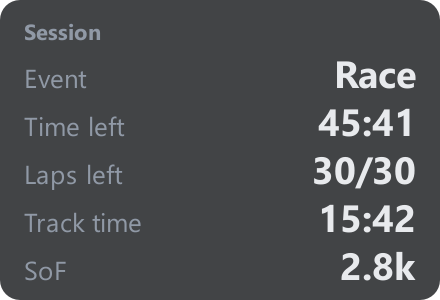
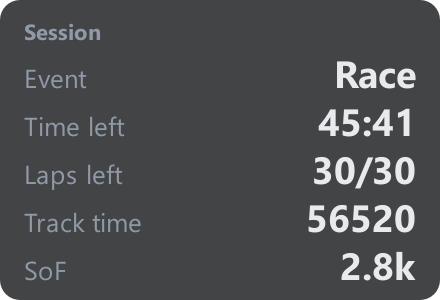
fix(dashboard): 36 служебных слов на экране — теперь ноль, и есть сторож
Прошёл по всем шести вкладкам, как договаривались, и посмотрел на текст,
а не на код. Нашлось три поломки, и все три показывали ОТСУТСТВИЕ ДАННЫХ
как поломку программы — человек идёт искать, что сломалось, вместо того
чтобы проехать круг.

«stint ~undefined laps» и «undefined L» на вкладке Strategy. Демо считало
план сам и придумало имена полей — `first_stop_lap`, `add_each`, — а
страница читает `next_stop_lap` и `fuel_per_stop`. Пропущенное поле
JavaScript печатает СЛОВОМ. Теперь демо зовёт тот же `plan_race`, что и
бой, а страница ставит прочерк вместо слова.

«NaN% износа» — я чинил это вчера и починил ОДНУ ИЗ ДВУХ КОПИЙ. Плитки
рисовались двумя функциями слово в слово, и Endurance так и печатал NaN%
по всем четырём колёсам. Копия расходится ровно тогда, когда первую
правят. Свёл в одну `wearTiles`.

«Time of day NaN:NaN». `fmtClock` делит на 3600, а демо давало строку
«15:42». Починено с обеих сторон: демо отдаёт секунды, как сим, а часы на
не-число ставят прочерк.

СТОРОЖ: `tests/test_dashboard_screen.py` поднимает страницу в безголовом
браузере, читает весь DOM (скрытые вкладки лежат в нём тоже — одной
загрузки хватает на все шесть) и падает, если на экране появилось
«undefined», «NaN» или «[object Object]». Две секунды. Проверено
обратной правкой: сломанные часы он ловит.

Заодно проверяет, что страница вообще отрисовалась и что износ показывает
проценты, а не четыре прочерка: карточка, молча показывающая прочерки,
выглядит исправной.

Changed region(s): [[0.6795, 0.66, 0.9455, 0.78]]

diff --git a/src/ire/dashboard/static/index.html b/src/ire/dashboard/static/index.html
@@ -693,7 +693,11 @@ function renderFuelGraph(){
 const _clr = c => (c ? '#'+(c>>>0).toString(16).padStart(6,'0') : 'var(--bad)');
 const fmtTime = s => { if(s==null) return '—'; s=Math.max(0,Math.round(s)); const h=Math.floor(s/3600),m=Math.floor(s%3600/60),ss=s%60;
   return h?`${h}:${String(m).padStart(2,'0')}:${String(ss).padStart(2,'0')}`:`${m}:${String(ss).padStart(2,'0')}`; };
-const fmtClock = s => { if(s==null) return '—'; s=Math.round(s)%86400; return `${String(Math.floor(s/3600)).padStart(2,'0')}:${String(Math.floor(s%3600/60)).padStart(2,'0')}`; };
+// Секунды от полуночи -> ЧЧ:ММ. Не число — прочерк: раньше здесь выходило
+// «NaN:NaN», то есть отсутствие данных выглядело как поломка арифметики.
+const fmtClock = s => { if(typeof s!=='number' || !isFinite(s)) return '—';
+  s=Math.round(s)%86400; if(s<0) s+=86400;
+  return `${String(Math.floor(s/3600)).padStart(2,'0')}:${String(Math.floor(s%3600/60)).padStart(2,'0')}`; };
 
 // бейдж «номер машины в цвете класса» (GTP жёлтый / LMP2 синий / GT3 алый — цвет с сервера)
 function numBadge(c){
@@ -735,8 +739,12 @@ function renderTrackRing(data){
     <circle cx="50" cy="50" r="40" fill="none" stroke="var(--line)" stroke-width="3"/>${dots}</svg>
     <div class="why" style="text-align:center;margin-top:6px">all cars on the lap (you are green)</div>`;
 }
-function renderWear(w){
-  if(!w || !Object.keys(w).length) return;
+// Плитки износа — ОДНА функция на обе вкладки.
+//
+// Их было две, слово в слово, и я починил одну: Endurance так и печатал
+// NaN% по всем четырём колёсам. Копия расходится ровно в тот момент, когда
+// первую правят, и заметить это можно только глазами на второй вкладке.
+function wearTiles(w){
   // Угол — это ТРИ зоны плюс худшая из них: {l, m, r, min}. Карточка читала
   // угол как одно число и множила объект на сто — на экране висело NaN% по
   // всем четырём колёсам. Число, которого нет, обязано выглядеть как «—»,
@@ -757,7 +765,12 @@ function renderWear(w){
     return `<div class="tire"><div class="cn">${name}</div><div style="font-size:20px;font-weight:700;color:${col}">${pct!=null?pct+'%':'—'}</div>
       <div class="bar" style="height:8px;margin-top:4px"><span style="width:${ok?Math.max(0,Math.min(100,pct)):0}%;background:${col};display:block;height:100%"></span></div>
       ${zones?`<div class="why" style="font-size:11px;margin-top:3px">${zones}</div>`:''}</div>`; };
-  $('wear').innerHTML = `<div class="tires" style="max-width:none">${cell('LF','Front left')}${cell('RF','Front right')}${cell('LR','Rear left')}${cell('RR','Rear right')}</div>`;
+  return `<div class="tires" style="max-width:none">${cell('LF','Front left')}${cell('RF','Front right')}${cell('LR','Rear left')}${cell('RR','Rear right')}</div>`;
+}
+
+function renderWear(w){
+  if(!w || !Object.keys(w).length) return;
+  $('wear').innerHTML = wearTiles(w);
 }
 // Tyre tool: что кромки протектора говорят про развал и давление.
 // Число ВСЕГДА рядом с вердиктом. Полосы измерены по 32 сессиям Ярослава на
@@ -1083,9 +1096,7 @@ function tickEndurance(){
       return `<tr${you}><td>${numBadge(c)}</td><td>${c.pos?'P'+c.pos:'—'}</td><td>${c.name||'—'}</td><td class="chg" style="text-align:right;color:${c.is_player?'var(--txt)':(c.gap>0?'var(--bad)':'var(--good)')}">${g}</td></tr>`;}).join('')}</table>`); }
   if(stand.length) set('e_standings', `<div style="overflow-x:auto"><table><tr><th style="text-align:right">P</th><th>#</th><th>Driver</th><th style="text-align:right">Gap</th><th style="text-align:right">Best</th></tr>${stand.map(d=>{
     const you=d.is_player?' style="background:var(--good-bg)"':''; return `<tr${you}><td style="text-align:right;color:var(--muted)">${d.pos}</td><td>${numBadge(d)}</td><td>${d.name||'—'}${d.on_pit?' <span style="color:var(--warn)">P</span>':''}</td><td class="chg" style="text-align:right">${d.gap?'+'+fix(d.gap,1):'—'}</td><td class="chg" style="text-align:right;color:var(--best)">${lapTime(d.best)}</td></tr>`;}).join('')}</table></div>`);
-  if(Object.keys(wear).length){ const cell=(c,n)=>{ const v=wear[c],p=v!=null?Math.round(v*100):null,col=v==null?'#333':(v>0.5?'var(--good)':(v>0.3?'var(--warn)':'var(--bad)'));
-    return `<div class="tire"><div class="cn">${n}</div><div style="font-size:20px;font-weight:700;color:${col}">${p!=null?p+'%':'—'}</div><div class="bar" style="height:8px;margin-top:4px"><span style="width:${p||0}%;background:${col};display:block;height:100%"></span></div></div>`; };
-    set('e_wear', `<div class="tires" style="max-width:none">${cell('LF','Front left')}${cell('RF','Front right')}${cell('LR','Rear left')}${cell('RR','Rear right')}</div>`); }
+  if(Object.keys(wear).length) set('e_wear', wearTiles(wear));
   if(live.tires) set('e_tires', tireTempTiles(live.tires));
   if(race.wind_vel!=null) set('e_weather', `<div class="mini" style="grid-template-columns:1fr 1fr">
     ${card('Wind', `${fix(race.wind_vel,1)} m/s`, windDir(race.wind_dir))}
@@ -1297,12 +1308,18 @@ async function tickStrategy(){
   const pl = g.plan;
   if(pl){
     const pb = [];
+    // Пропущенное поле JavaScript печатает СЛОВОМ: на экране висело
+    // «stint ~undefined laps». Число, которого нет, обязано выглядеть как
+    // прочерк — иначе это читается как поломка программы, а не как
+    // «пока не посчитано».
     pb.push(card('Pit stops', pl.stops===0 ? 'not needed' : `${pl.stops} ${pl.stops===1?'stop':'stops'}`,
-      `stint ~${pl.stint_laps} ${pl.stint_laps===1?'lap':'laps'}`));
+      pl.stint_laps!=null ? `stint ~${pl.stint_laps} ${pl.stint_laps===1?'lap':'laps'}` : ''));
     if(pl.stops>0){
       const when = pl.next_stop_lap ? `lap ${pl.next_stop_lap}` : (pl.laps_until_stop!=null ? `in ${pl.laps_until_stop} laps` : '—');
       pb.push(card('First pit', when, pl.fuel_per_stop!=null ? `add ~${pl.fuel_per_stop} L` : ''));
-      pb.push(card('Total to add', `${pl.fuel_to_add_total} L`, `for ${pl.laps_to_go} ${pl.laps_to_go===1?'lap':'laps'} to the finish`));
+      pb.push(card('Total to add',
+        pl.fuel_to_add_total!=null ? `${pl.fuel_to_add_total} L` : '—',
+        pl.laps_to_go!=null ? `for ${pl.laps_to_go} ${pl.laps_to_go===1?'lap':'laps'} to the finish` : ''));
     }
     if(pl.save_to_skip!=null){
       pb.push(`<div class="tire" style="border-color:var(--warn)"><div class="cn">Drop a stop</div>

diff --git a/tests/test_dashboard_screen.py b/tests/test_dashboard_screen.py
@@ -1,0 +1,123 @@
+"""Что человек ВИДИТ на дашборде: нет ли там служебного мусора.
+
+«undefined», «NaN», «null», «[object Object]» на экране означают одно и то
+же: поле не пришло, а страница напечатала внутреннее имя вместо прочерка.
+Отсутствие данных при этом выглядит как поломка программы, и человек идёт
+искать, что сломалось, вместо того чтобы проехать круг.
+
+Разовая проверка нашла 36 таких мест сразу: «stint ~undefined laps»,
+«undefined L», «NaN% износа» на всех четырёх колёсах и «Time of day
+NaN:NaN». Ни одно из них не ловил ни один тест — их видно только глазами,
+поэтому смотрим машиной.
+
+КАК. Одна загрузка страницы в безголовом браузере и разбор всего DOM:
+скрытые вкладки лежат в нём тоже, поэтому шести заходов не нужно. Скрипты
+из разбора выбрасываются — там «undefined» и «null» стоят по делу.
+
+Нет браузера — пропуск с причиной. Он есть на раннере GitHub и обычно есть
+у человека; молчаливого пропуска здесь быть не должно, иначе ноль тестов
+снова сойдёт за ноль проблем.
+"""
+import os
+import pathlib
+import re
+import socket
+import subprocess
+import sys
+import tempfile
+import threading
+import time
+
+import pytest
+
+ROOT = pathlib.Path(__file__).resolve().parents[1]
+sys.path.insert(0, str(ROOT / "tools"))
+
+import render_dashboard as RD                                    # noqa: E402
+
+CHROME = RD.find_chrome()
+
+# `null` намеренно НЕ ищем в тексте: слово встречается в английских
+# подписях («null hypothesis» и подобных) и в наших пояснениях. Три
+# оставшихся однозначны.
+GARBAGE = re.compile(r"\bundefined\b|\bNaN\b|\[object Object\]")
+
+needs_chrome = pytest.mark.skipif(
+    not CHROME, reason="нет Chrome — страницу нечем отрисовать")
+
+
+def _dom():
+    """DOM живой страницы с демо-данными. Одна загрузка, все вкладки."""
+    import uvicorn
+
+    from ire.dashboard.server import STATE, app
+
+    tmpdir = tempfile.mkdtemp(prefix="ire-screen-")
+    old_db = os.environ.get("IRE_DB_PATH")
+    os.environ["IRE_DB_PATH"] = os.path.join(tmpdir, "screen.db")
+    feed = RD.seed(STATE)
+    port = RD.free_port()
+    server = uvicorn.Server(uvicorn.Config(app, host="127.0.0.1", port=port,
+                                           log_level="error"))
+    threading.Thread(target=server.run, daemon=True).start()
+    stop = threading.Event()
+    threading.Thread(target=RD.pump, args=(STATE, feed, stop),
+                     daemon=True).start()
+    try:
+        for _ in range(80):
+            try:
+                with socket.create_connection(("127.0.0.1", port), 0.2):
+                    break
+            except OSError:
+                time.sleep(0.1)
+        r = subprocess.run(
+            [CHROME, "--headless=new", "--disable-gpu",
+             "--virtual-time-budget=6000", "--dump-dom",
+             f"http://127.0.0.1:{port}/"],
+            capture_output=True, timeout=180)
+        return r.stdout.decode("utf-8", errors="replace")
+    finally:
+        stop.set()
+        server.should_exit = True
+        time.sleep(0.3)
+        if old_db is None:
+            os.environ.pop("IRE_DB_PATH", None)
+        else:
+            os.environ["IRE_DB_PATH"] = old_db
+
+
+@pytest.fixture(scope="module")
+def screen():
+    dom = _dom()
+    # Внутри <script> «undefined» — это код, а не то, что видит человек.
+    body = re.sub(r"(?is)<script.*?</script>", " ", dom)
+    return re.sub(r"(?s)<[^>]+>", " ", body)
+
+
+@needs_chrome
+def test_the_page_shows_no_internal_words(screen):
+    hits = []
+    for m in GARBAGE.finditer(screen):
+        a, b = max(0, m.start() - 60), m.end() + 60
+        hits.append(" ".join(screen[a:b].split()))
+    assert not hits, "служебные слова на экране:\n  " + "\n  ".join(hits[:10])
+
+
+@needs_chrome
+def test_the_page_actually_rendered(screen):
+    """Иначе пустая страница пройдёт проверку выше не глядя."""
+    assert "Race Engineer" in screen
+    for word in ("Gauges", "Tire wear", "Fuel", "Standings"):
+        assert word.lower() in screen.lower(), f"нет карточки {word}"
+
+
+@needs_chrome
+def test_the_wear_card_shows_numbers_not_dashes(screen):
+    """NaN% чинили один раз и починили только одну из двух копий.
+
+    Проверяем не отсутствие NaN (это выше), а наличие процентов: карточка,
+    молча показывающая четыре прочерка, выглядит исправной.
+    """
+    i = screen.index("Tire wear")
+    window = screen[i:i + 400]
+    assert re.search(r"\d+%", window), window[:200]

diff --git a/overlay/demo.py b/overlay/demo.py
@@ -281,6 +281,8 @@ class DemoFeed:
             return {"cars": cars}
 
         if ep == "strategy":
+            from ire.metrics.strategy import plan_race as _plan_race
+
             return {
                 "fuel": round(fuel, 1), "tank": TANK, "avg_burn": BURN_PER_LAP,
                 "last_burn": BURN_PER_LAP + 0.06, "min_burn": BURN_PER_LAP - 0.3,
@@ -291,7 +293,15 @@ class DemoFeed:
                 "tire_min": round(wear, 3), "tire_wear_per_lap": 0.011,
                 "tire_laps_left": round(max(0.0, (wear - 0.3) / 0.011), 1),
                 "change_tires": wear < 0.35,
-                "plan": {"stops": 1, "first_stop_lap": lap + 6, "add_each": 34.0},
+                # План считает ТОТ ЖЕ `plan_race`, что и в бою. Здесь стоял
+                # словарь с выдуманными именами полей — `first_stop_lap` и
+                # `add_each`, — а страница читает `next_stop_lap` и
+                # `fuel_per_stop`. Отсутствующие поля JavaScript печатает
+                # словом: на витрине висело «stint ~undefined laps» и
+                # «undefined L». Второй раз на тех же граблях, поэтому
+                # больше не выдумываем — зовём.
+                "plan": _plan_race(max(1, 30 - (lap - 8)), BURN_PER_LAP,
+                                   fuel, TANK, cur_lap=lap),
             }
 
         if ep == "wear":
@@ -315,7 +325,10 @@ class DemoFeed:
                     "laps_remain": max(0, 30 - (lap - 8)),
                     "time_remain": max(0.0, 30 * LAP_TIME - el),
                     "record": LAP_TIME - 1.2, "sof": 2840,
-                    "time_of_day": "15:42"}
+                    # Секунды от полуночи — ровно то, что отдаёт
+                    # SessionTimeOfDay. Здесь стояла строка «15:42», и
+                    # страница честно печатала «NaN:NaN»: она делит на 3600.
+                    "time_of_day": 15 * 3600 + 42 * 60}
 
         if ep == "damage":
             return {"incidents": 2, "team_incidents": 6, "team": []}

diff --git a/tests/test_dashboard_js.py b/tests/test_dashboard_js.py
@@ -86,7 +86,7 @@ def test_the_wear_card_reads_a_corner_as_three_zones_not_one_number():
     зоны, а карточку никто не поправил.
     """
     src = HTML.read_text(encoding="utf-8")
-    body = src[src.index("function renderWear("):]
+    body = src[src.index("function wearTiles("):]
     body = body[:body.index("\n}")]
     flat = body.replace(" ", "")
     # Худшая зона достаётся ЯВНО, а не берётся угол целиком.
@@ -108,3 +108,26 @@ def test_the_wear_payload_really_has_zones():
     for corner, zones in w.items():
         assert isinstance(zones, dict), f"{corner}: снова одно число?"
         assert {"l", "m", "r", "min"} <= set(zones), corner
+
+
+def test_the_wear_tiles_are_drawn_by_one_function_not_two():
+    """Их было две, слово в слово. Я починил одну.
+
+    Endurance так и печатал NaN% по всем четырём колёсам, потому что вторая
+    копия осталась старой. Копия расходится ровно тогда, когда первую
+    правят, и увидеть это можно только глазами на второй вкладке.
+    """
+    src = HTML.read_text(encoding="utf-8")
+    assert src.count("function wearTiles(") == 1
+    # Признак старой копии: угол уходит в арифметику целиком.
+    assert "constv=wear[c]" not in src.replace(" ", "")
+    # Обе вкладки зовут одну функцию.
+    assert src.count("wearTiles(") >= 3, "кто-то снова рисует плитки сам"
+
+
+def test_the_clock_never_prints_NaN():
+    """«NaN:NaN» на экране — это отсутствие данных, притворившееся поломкой."""
+    src = HTML.read_text(encoding="utf-8")
+    line = next(ln for ln in src.splitlines() if "const fmtClock" in ln)
+    flat = line.replace(" ", "")
+    assert "typeofs!=='number'" in flat and "isFinite" in flat
